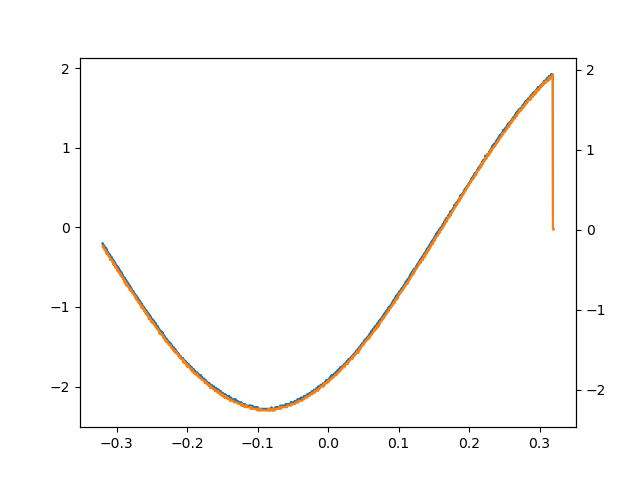
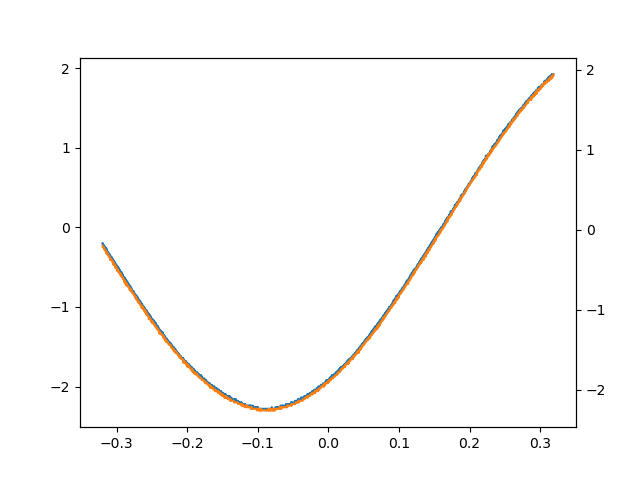
modifiche dei giorni scorsi

diff --git a/lab2/utils/oscilloscope.py b/lab2/utils/oscilloscope.py
@@ -2,7 +2,7 @@ from enum import Enum, auto
 import pandas as pd
 import numpy as np
 from matplotlib import pyplot as plt
-from typing import Literal
+from typing import Literal, Sequence
 
 
 class Oscilloscope(Enum):
@@ -22,6 +22,7 @@ class Oscilloscope(Enum):
         dir: str = ".",
         *,
         del_data: float | None = None,
+        del_data_slices: Sequence[slice] = (),
         plot_dir: str | None = None,
     ) -> tuple[np.ndarray, np.ndarray]:
         """
@@ -42,6 +43,8 @@ class Oscilloscope(Enum):
                 data = file[4].to_numpy(np.float64) / atten
                 if del_data is not None:
                     data[data == del_data] = np.nan
+                for del_data_slice in del_data_slices:
+                    data[del_data_slice] = np.nan
                 if plot_dir is not None:
                     plot_data(t, data, to_file=f"{plot_dir}/{idx}.png")
                 return t, data
@@ -50,6 +53,10 @@ class Oscilloscope(Enum):
                 file = pd.read_csv(f"{dir}/TEK{idx:05}.CSV", skiprows=15)
                 t = file["TIME"].to_numpy(np.float64)
                 data = file[f"CH{ch}"].to_numpy(np.float64)
+                if del_data is not None:
+                    data[data == del_data] = np.nan
+                for del_data_slice in del_data_slices:
+                    data[del_data_slice] = np.nan
                 if plot_dir is not None:
                     plot_data(t, data, to_file=f"{plot_dir}/{idx}.png")
                 return (t, data)
@@ -64,6 +71,7 @@ class Oscilloscope(Enum):
         # TODO: Find out automatically when data has to be removed.
         ch1_del_data: float | None = None,
         ch2_del_data: float | None = None,
+        del_data_slices: Sequence[slice] = (),
         plot_dir: str | None = None,
     ) -> tuple[np.ndarray, np.ndarray, np.ndarray]:
         """
@@ -76,8 +84,8 @@ class Oscilloscope(Enum):
         """
         match self:
             case Oscilloscope.LabDid:
-                t1, ch1 = self.load_channel(1, idx, dir, del_data=ch1_del_data)
-                t2, ch2 = self.load_channel(2, idx, dir, del_data=ch2_del_data)
+                t1, ch1 = self.load_channel(1, idx, dir, del_data=ch1_del_data, del_data_slices=del_data_slices)
+                t2, ch2 = self.load_channel(2, idx, dir, del_data=ch2_del_data, del_data_slices=del_data_slices)
                 assert np.array_equal(t1, t2, equal_nan=True)
                 if plot_dir is not None:
                     plot_data(t1, ch1, ch2, to_file=f"{plot_dir}/{idx}.png")
@@ -88,6 +96,13 @@ class Oscilloscope(Enum):
                 t = file["TIME"].to_numpy(np.float64)
                 ch1 = file["CH1"].to_numpy(np.float64)
                 ch2 = file["CH2"].to_numpy(np.float64)
+                if ch1_del_data is not None:
+                    ch1[ch1 == ch1_del_data] = np.nan
+                if ch2_del_data is not None:
+                    ch2[ch2 == ch2_del_data] = np.nan
+                for del_data_slice in del_data_slices:
+                    ch1[del_data_slice] = np.nan
+                    ch2[del_data_slice] = np.nan
                 if plot_dir is not None:
                     plot_data(t, ch1, ch2, to_file=f"{plot_dir}/{idx}.png")
                 return (t, ch1, ch2)

diff --git a/lab2/exp5/data/day0/README.md b/lab2/exp5/data/day0/README.md
@@ -1,0 +1,2 @@
+# Giorno dell'esperienza 5
+Non avevamo ancora capito come salvare i dati in formato `.csv`, per cui i dati grezzi di questa giornata sono stati salvati in formato `.png` (purtroppo).

diff --git a/lab2/exp5/data/day1/README.md b/lab2/exp5/data/day1/README.md
@@ -1,0 +1,4 @@
+# Giorno dell'esperienza 6
+Abbiamo:
+1. raccolto tutti i dati dell'esperienza 6
+2. ripresi i dati dell'esperienza 5 con resistenza da 1kOhm
